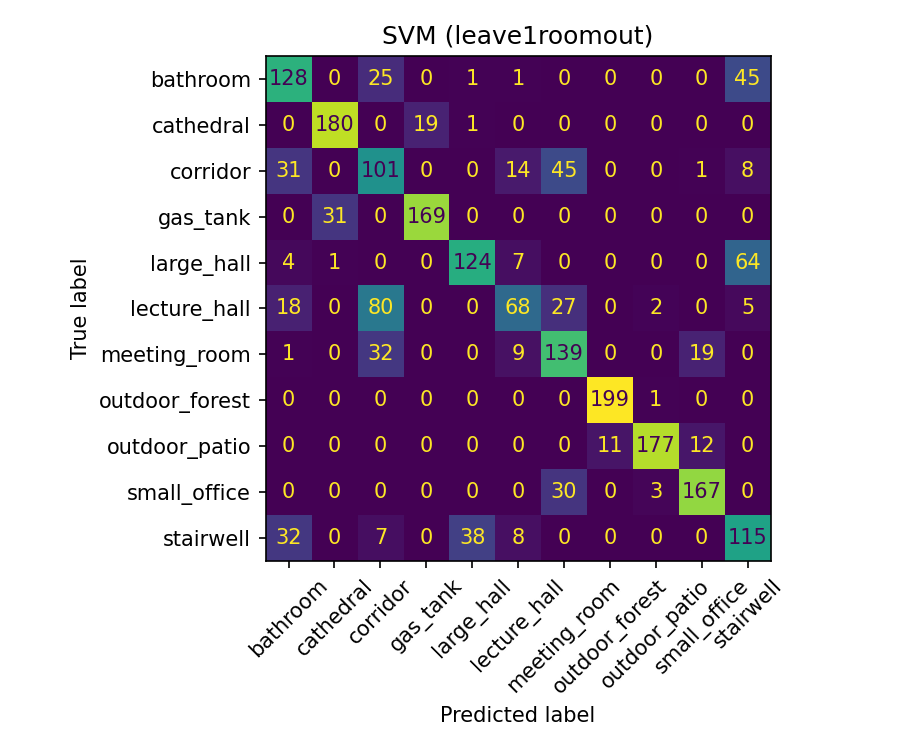
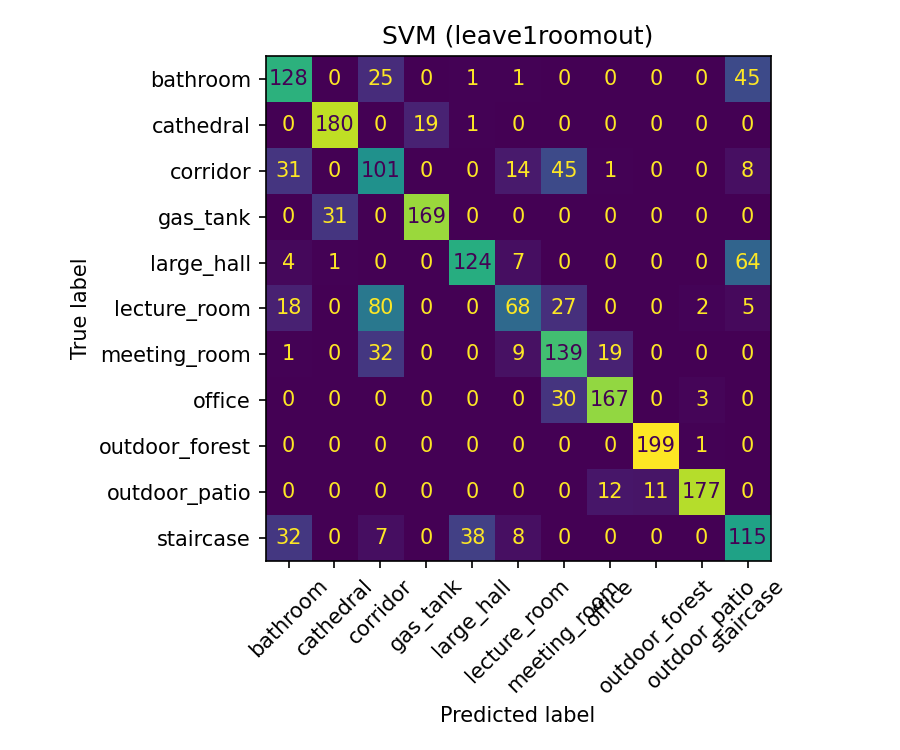
re-run train.py with new room-tags found: simulated IR are way too "dry" with respect to the real one in BUT. Need a deeper check.

diff --git a/src/train.py b/src/train.py
@@ -1,12 +1,14 @@
 """Benchmark classical classifiers on room-acoustic features.
 
 Two evaluations:
-  A) Stratified 5-fold CV over all classes. RIRs from the same room appear in
-     both train and test, so this measures room-dependent performance (an
-     optimistic upper bound: the model may recognize the room, not the class).
-  B) Leave-one-room-out CV, restricted to classes covered by more than one
-     room (office, lecture_room). The model never sees the test room, so this
-     measures generalization to unseen rooms. This is the honest number.
+  A) Stratified 5-fold CV on the synthetic set, all 11 classes. Each
+     synthetic room_id is a distinct simulated room sampled once, so there is
+     no repeated-room leak here: this is already a room-independent estimate
+     of in-sim performance.
+  B) Sim-to-real: train on the synthetic set restricted to the classes that
+     overlap with the real BUT set (office, meeting_room, lecture_room,
+     staircase), test on the real held-out rooms. This is the honest
+     generalization number the project is actually about.
 """
 
 import argparse
@@ -15,12 +17,11 @@ from pathlib import Path
 import matplotlib
 matplotlib.use("Agg")
 import matplotlib.pyplot as plt
-import numpy as np
 import pandas as pd
 from sklearn.ensemble import RandomForestClassifier
 from sklearn.metrics import (ConfusionMatrixDisplay, accuracy_score,
                              confusion_matrix, f1_score)
-from sklearn.model_selection import LeaveOneGroupOut, StratifiedKFold
+from sklearn.model_selection import StratifiedKFold
 from sklearn.neighbors import KNeighborsClassifier
 from sklearn.preprocessing import LabelEncoder, StandardScaler
 from sklearn.svm import SVC
@@ -31,6 +32,7 @@ RESULTS = ROOT / "results"
 RESULTS.mkdir(exist_ok=True)
 
 FEATURES = ["rt60", "edt", "c80", "d50", "ts", "drr"]
+OVERLAP_CLASSES = ["office", "meeting_room", "lecture_room", "staircase"]
 
 
 def make_models() -> dict:
@@ -43,16 +45,27 @@ def make_models() -> dict:
     }
 
 
-def run_cv(df: pd.DataFrame, splitter, groups, eval_name: str,
-           metrics: list, feature_cols: list[str]) -> None:
+def save_confusion(y_true, y_pred, labels, model_name: str, eval_name: str) -> None:
+    cm = confusion_matrix(y_true, y_pred, labels=range(len(labels)))
+    disp = ConfusionMatrixDisplay(cm, display_labels=labels)
+    fig, ax = plt.subplots(figsize=(6, 5))
+    disp.plot(ax=ax, colorbar=False, xticks_rotation=45)
+    ax.set_title(f"{model_name} ({eval_name})")
+    fig.tight_layout()
+    fig.savefig(RESULTS / f"cm_{eval_name}_{model_name}.png", dpi=150)
+    plt.close(fig)
+
+
+def run_cv(df: pd.DataFrame, eval_name: str, metrics: list,
+           feature_cols: list[str]) -> None:
     X = df[feature_cols].values
-    y_raw = df["label"].values
     le = LabelEncoder()
-    y = le.fit_transform(y_raw)
+    y = le.fit_transform(df["label"].values)
+    skf = StratifiedKFold(n_splits=5, shuffle=True, random_state=42)
 
     for model_name, model in make_models().items():
         all_true, all_pred = [], []
-        for train_idx, test_idx in splitter.split(X, y, groups):
+        for train_idx, test_idx in skf.split(X, y):
             scaler = StandardScaler()
             X_train = scaler.fit_transform(X[train_idx])
             X_test = scaler.transform(X[test_idx])
@@ -65,40 +78,56 @@ def run_cv(df: pd.DataFrame, splitter, groups, eval_name: str,
         metrics.append({"eval": eval_name, "model": model_name,
                         "accuracy": round(acc, 4), "f1_macro": round(f1m, 4)})
         print(f"[{eval_name}] {model_name:12s} acc={acc:.3f} f1_macro={f1m:.3f}")
+        save_confusion(all_true, all_pred, le.classes_, model_name, eval_name)
 
-        cm = confusion_matrix(all_true, all_pred)
-        disp = ConfusionMatrixDisplay(cm, display_labels=le.classes_)
-        fig, ax = plt.subplots(figsize=(6, 5))
-        disp.plot(ax=ax, colorbar=False, xticks_rotation=45)
-        ax.set_title(f"{model_name} ({eval_name})")
-        fig.tight_layout()
-        fig.savefig(RESULTS / f"cm_{eval_name}_{model_name}.png", dpi=150)
-        plt.close(fig)
+
+def run_holdout(train_df: pd.DataFrame, test_df: pd.DataFrame, eval_name: str,
+                metrics: list, feature_cols: list[str]) -> None:
+    le = LabelEncoder()
+    le.fit(train_df["label"].values)
+    y_train = le.transform(train_df["label"].values)
+    y_test = le.transform(test_df["label"].values)
+    X_train_raw = train_df[feature_cols].values
+    X_test_raw = test_df[feature_cols].values
+
+    for model_name, model in make_models().items():
+        scaler = StandardScaler()
+        X_train = scaler.fit_transform(X_train_raw)
+        X_test = scaler.transform(X_test_raw)
+        model.fit(X_train, y_train)
+        y_pred = model.predict(X_test)
+
+        acc = accuracy_score(y_test, y_pred)
+        f1m = f1_score(y_test, y_pred, average="macro")
+        metrics.append({"eval": eval_name, "model": model_name,
+                        "accuracy": round(acc, 4), "f1_macro": round(f1m, 4)})
+        print(f"[{eval_name}] {model_name:12s} acc={acc:.3f} f1_macro={f1m:.3f}")
+        save_confusion(y_test, y_pred, le.classes_, model_name, eval_name)
 
 
 def main() -> None:
     p = argparse.ArgumentParser()
-    p.add_argument("--features", type=Path, default=ROOT / "data" / "sim" / "features.csv")
+    p.add_argument("--sim-features", type=Path, default=ROOT / "data" / "sim" / "features.csv")
+    p.add_argument("--real-features", type=Path, default=ROOT / "data" / "real" / "features.csv")
     args = p.parse_args()
 
-    df = pd.read_csv(args.features)
-    df = df.dropna(subset=["label"] + FEATURES)
-    print(df["label"].value_counts(), "\n")
+    sim = pd.read_csv(args.sim_features).dropna(subset=["label"] + FEATURES)
+    real = pd.read_csv(args.real_features).dropna(subset=["label"] + FEATURES)
+    print(sim["label"].value_counts(), "\n")
 
     metrics: list = []
 
-    # A) room-dependent (upper bound)
-    skf = StratifiedKFold(n_splits=5, shuffle=True, random_state=42)
-    run_cv(df, skf, None, "stratified5fold", metrics, FEATURES)
+    # A) in-sim, all classes, already room-independent (one RIR per simulated room)
+    run_cv(sim, "insim_5fold", metrics, FEATURES)
 
-    # B) room-independent, only classes with >= 2 rooms
-    rooms_per_class = df.groupby("label")["room_id"].nunique()
-    multi = rooms_per_class[rooms_per_class >= 2].index.tolist()
-    sub = df[df["label"].isin(multi)].reset_index(drop=True)
-    print(f"\nLeave-one-room-out on classes {multi} "
-          f"({sub['room_id'].nunique()} rooms, {len(sub)} samples)")
-    logo = LeaveOneGroupOut()
-    run_cv(sub, logo, sub["room_id"].values, "leave1roomout", metrics, FEATURES)
+    # B) sim-to-real: train on synthetic overlap classes, test on real held-out rooms
+    sim_overlap = sim[sim["label"].isin(OVERLAP_CLASSES)].reset_index(drop=True)
+    real_overlap = real[real["label"].isin(OVERLAP_CLASSES)].reset_index(drop=True)
+    print(f"\nSim-to-real on classes {OVERLAP_CLASSES}: "
+          f"{len(sim_overlap)} synthetic train rooms, "
+          f"{real_overlap['room_id'].nunique()} real test rooms "
+          f"({len(real_overlap)} samples)")
+    run_holdout(sim_overlap, real_overlap, "sim2real", metrics, FEATURES)
 
     out = pd.DataFrame(metrics)
     out.to_csv(RESULTS / "metrics.csv", index=False)

diff --git a/notes.md b/notes.md
@@ -61,3 +61,17 @@ In code this is a `geometry` field per room type and one builder per geometry ki
 ### Open decisions
 - Validate the room-type taxonomy, geometry choices and dimension/absorption ranges (`room_types.py`), especially the exotic spaces where my estimates are rough.
 - Neural side (phase 3): small CNN on RIR spectrograms, or convolve RIRs with speech and use a pretrained SOTA audio model. Decide when we get there.
+
+### Fixing the leave-one-room-out confusion (July '26)
+
+Ported `train.py` from phase 1 as-is at first, including the leave-one-room-out CV. Ran it on the synthetic set and it hung for a long time on "Leave-one-room-out on classes [...11 classes...] (2200 rooms, 2200 samples)". Killed it.
+
+The reason: in the synthetic set every `room_id` is a distinct simulated room generated once, so rooms == samples, 1:1. Leave-one-room-out degenerates into leave-one-sample-out CV, thousands of folds, no extra rigor over a plain stratified k-fold, just very slow (refits every model per fold).
+
+Leave-one-room-out only ever made sense for the real BUT set, where a handful of physical rooms are each recorded multiple times (few rooms, many RIRs), so a naive split leaks the room identity. That axis doesn't exist in the synthetic set by construction.
+
+Fixed `train.py`:
+- Eval A stays a stratified 5-fold CV on the full synthetic set (`insim_5fold`). It's already room-independent because rooms don't repeat.
+- Eval B is now the actual sim-to-real test (`sim2real`): train on synthetic restricted to the overlap classes (office, meeting_room, lecture_room, staircase), test on the real held-out set for those classes. This is the eval that matters for the paper's claim.
+
+Old `cm_leave1roomout_*.png` / `cm_stratified5fold_*.png` in `results/` are stale (from the old scheme, one run partial from the kill). Will be replaced by `cm_insim_5fold_*.png` and `cm_sim2real_*.png` on the next run.
